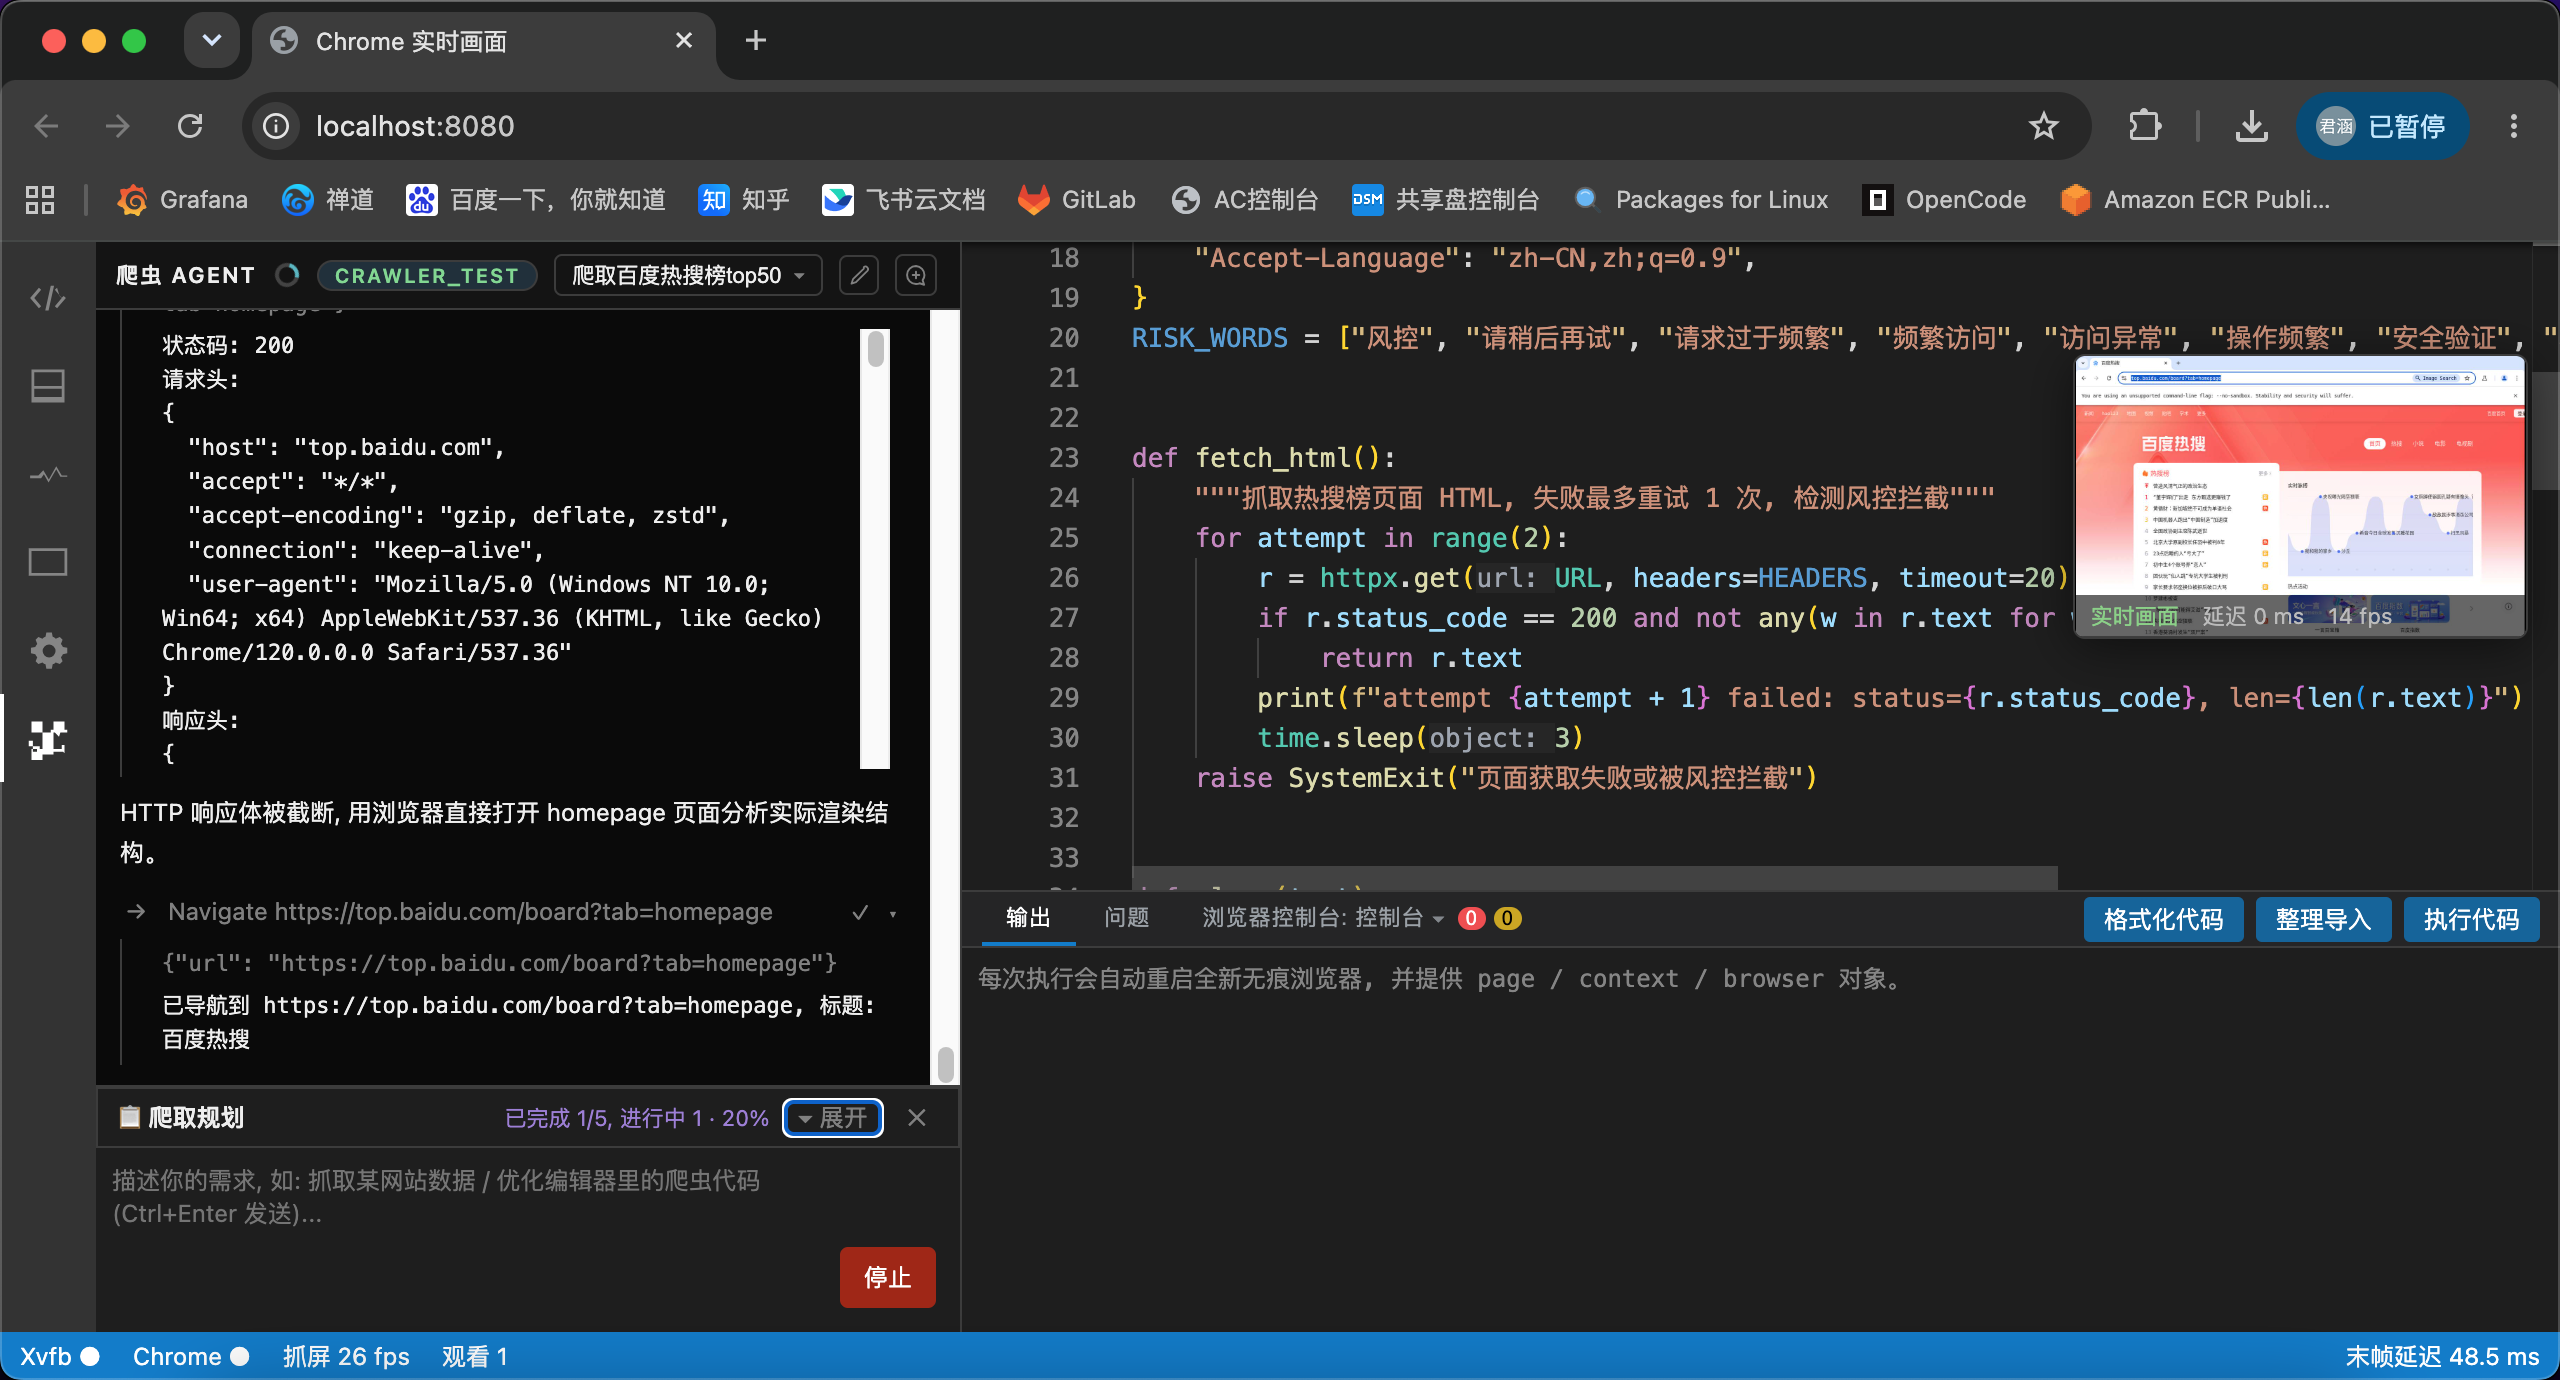
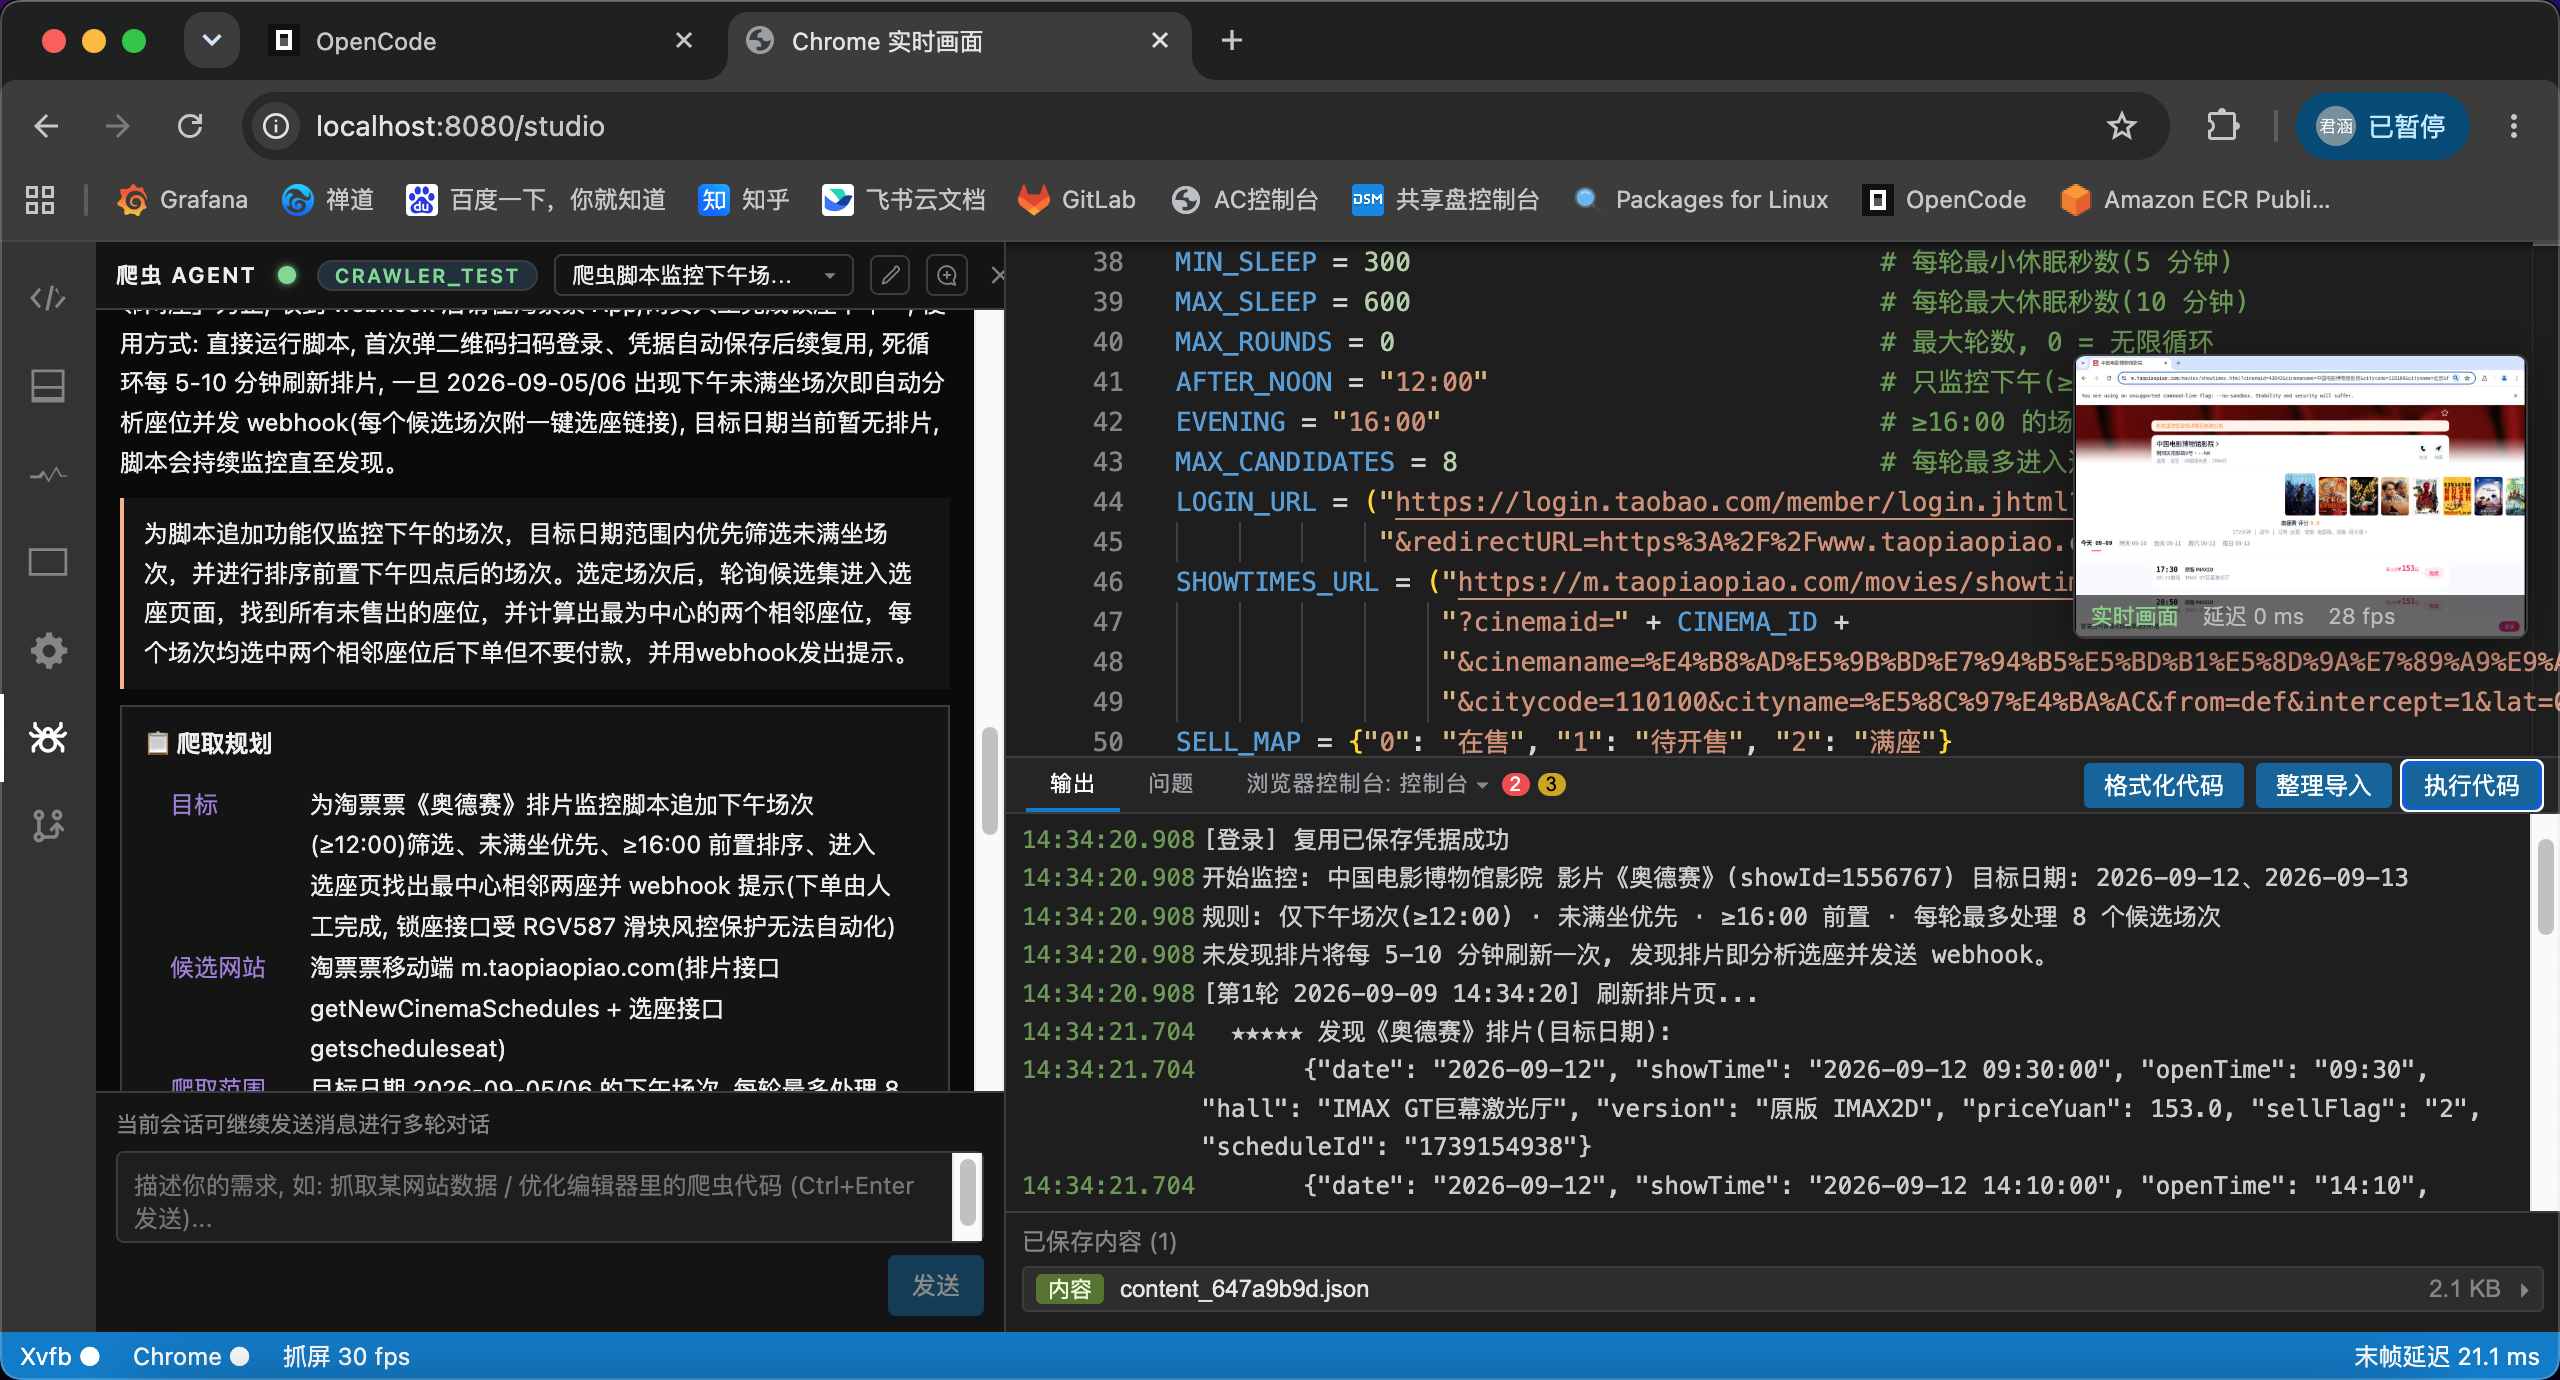
更新README

diff --git a/README.md b/README.md
@@ -465,7 +465,7 @@ uv run pytest --cov=backend --cov-report=term   # 覆盖率报告 (90%+)
 
 ## 📄 License
 
-本项目目前未附带 `LICENSE` 文件，暂未开放分发。正式开源前请补充 LICENSE（推荐 MIT）。
+本项目采用 [MIT License](./LICENSE)。
 
 ---
 
